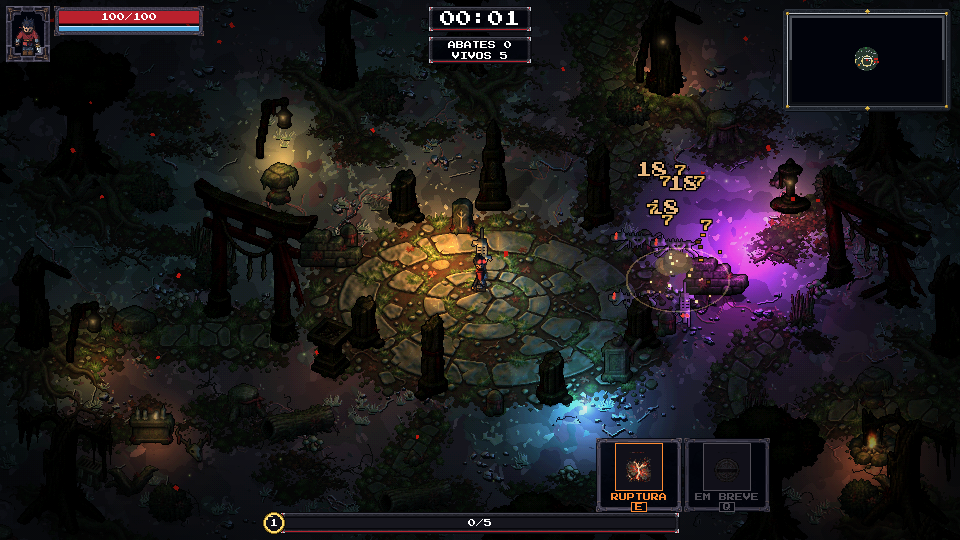
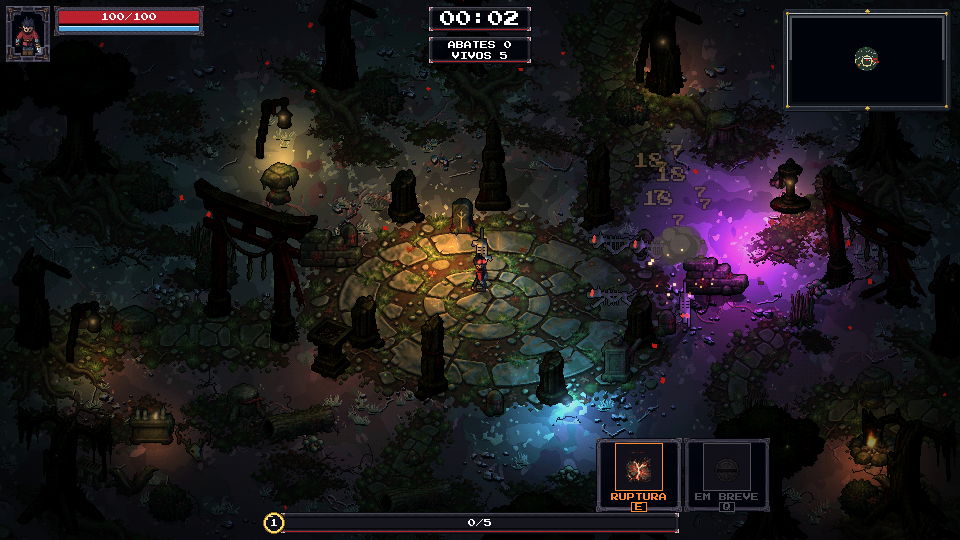
v2: fumaca que sobe, sombra da cabaca mais forte, numeros dos Fogos somados por monstro; fotos novas

Changed region(s): [[0.5938, 0.2667, 0.75, 0.563], [0.5, 0.6815, 0.6875, 0.8296], [0.9062, 0.8, 0.9375, 0.8296]]

diff --git a/LOGBOOK.md b/LOGBOOK.md
@@ -2138,6 +2138,7 @@ _Claude do Alisson (PC)_
 - **Feito (revisão de arte):** a **Sentinela** deixou de ser um risco cinza: tripé de bambu de 30 px com contorno escuro, nós e amarra, plataforma com aljava, balestra grande que gira e recua, bandeirola vermelha que balança e lanterna (o Pagode ganha pilares e telhado azul com beiral); a geometria fica em constantes (`TORRE_TOPO`, `TORRE_PIVO`, `TORRE_BOCA`) usadas pelo desenho, pelo brilho e pelo tiro. Disparo com clarão em estrela, faíscas, fumacinha e rastro de faíscas no virote; pouso com poeira que incha, lascas e onda. A **Cabaça** ficou 1,2x maior, com contorno e luz, sombra mais escura com o arco marcado no chão, mira no ponto de queda, faíscas e fumaça no pavio; a explosão ganhou raios, casca que voa e quica, fumaça que sobe e brasas que apagam do amarelo ao vermelho (no nível 5 solta brasas e fumaça o tempo todo). Os números dos estilhaços (e dos estouros dos Fogos) saem menores, quentes e empurrados 20 a 24 px para fora do centro, em leque; o arco do Pagode é duplo e acende cada ponto.
 - **Como:** pool próprio de 96 partículas em `armas_novas.gd` (fumaça, lasca com gravidade e quique, brasa), desenhado na camada normal (fumaça e lasca, que recebem a luz) e na aditiva (brasa), sem nó novo; `fx` só desenha em aditivo e não serve para fumaça escura. Testes `v2_sentinela` e `v2_cabaca` com fotos novas (clarão da boca, virote no ar, explosão aos 0,07 e 0,3 s, brasa do nível 5, Fogos). Os 4 ícones atuais (32 e 16 px) foram conferidos ao lado dos vizinhos e ficaram: legíveis e mais limpos que os da vizinhança.
 - **Conferido:** `v2_sentinela`, `v2_cabaca`, `v2_armas_sprites`, `v2_icones_cartas`, `v2_fontes` com `falhas=0`; fotos reais em `jogos/hordas/prints/v2_sentinela_*`, `v2_cabaca_*`, `v2_pagode_trovao` e `v2_fogos_festival`.
-- **Pendente:** ninguém jogou; a animação só foi vista em fotos paradas. A fumaça aparece pouco no mapa escuro (é bege e pequena) e os números dos Fogos ainda empilham quando muitos estouros caem no mesmo monstro. Os números de dano seguem chute.
+- **Também:** a fumaça sobe de verdade (40 a 60 px, sem freio vertical) e vira cinza depois de nascer alaranjada; os números dos Fogos somam por monstro a cada 0,22 s em vez de empilhar; `v2_fusoes`, `v2_partida` e `armas_novas` também com `falhas=0`.
+- **Pendente:** ninguém jogou; a animação só foi vista em fotos paradas. A sombra da cabaça no ar é escura sobre chão escuro e quase não se vê (a mira laranja no ponto de queda é o que lê); os números dos Fogos ainda se sobrepõem um pouco quando muitos monstros apertados levam estouro junto; os números de dano seguem chute.
 
 _Claude do Alisson (PC)_
